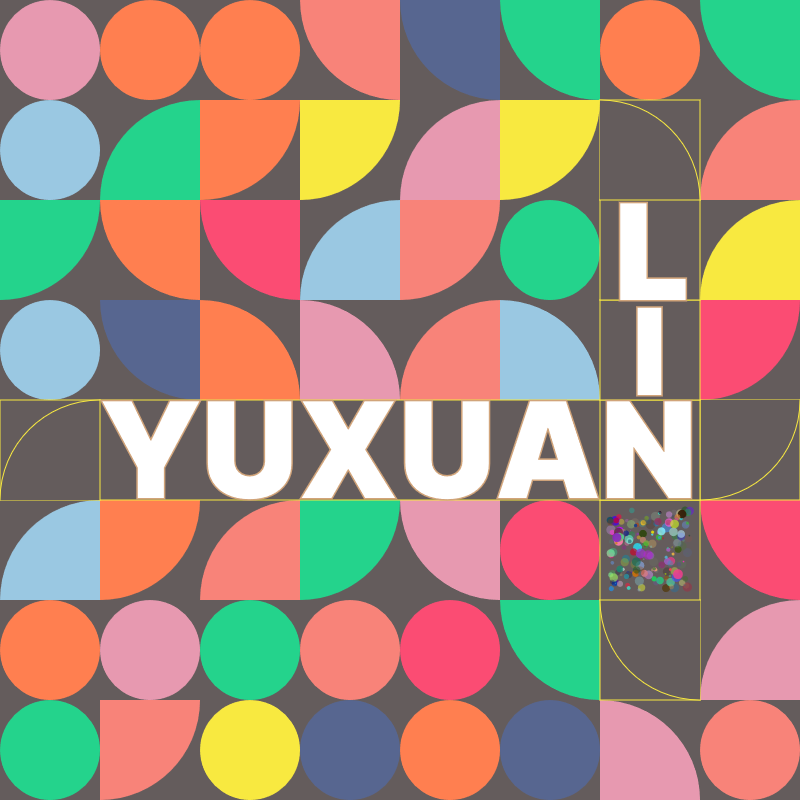
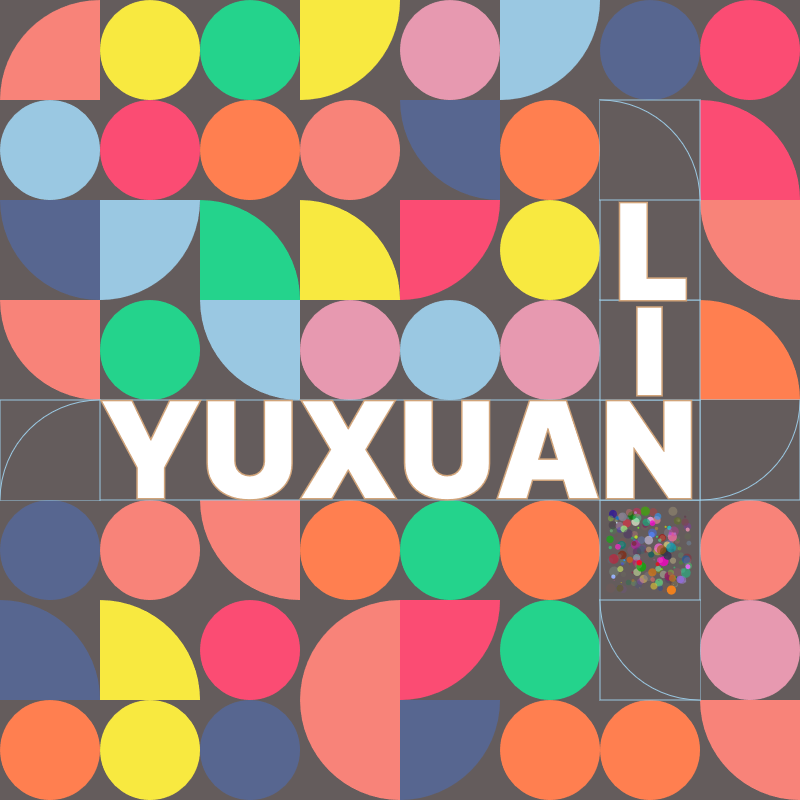
Update color.

diff --git a/sketch.js b/sketch.js
@@ -98,13 +98,13 @@ function draw() {
 
   fill(color_base);
 
-  stroke(color_G);
+  stroke(color_E);
   rect(0, 400, 100);
   rect(700, 400, 100);
   rect(600, 100, 100);
   rect(600, 600, 100);
 
-  stroke(color_G);
+  stroke(color_E);
   arc(100, 500, 200, 200, PI, PI + HALF_PI);
   arc(700, 400, 200, 200, 0, HALF_PI);
   arc(600, 200, 200, 200, PI + HALF_PI, TWO_PI);
